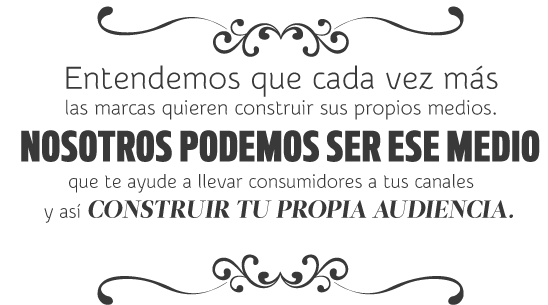
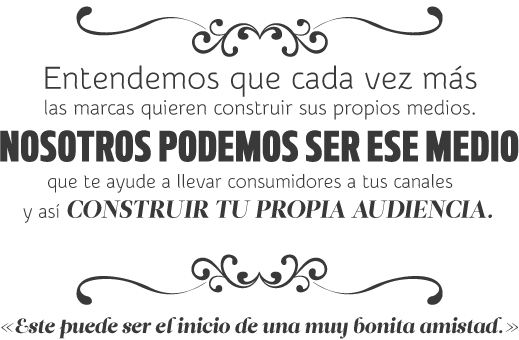
ajustes textos animacion

Changed region(s): [[0.0, 0.0, 1.0, 1.0], [0.8015, 0.0, 0.8632, 0.0885], [0.7091, 0.7967, 0.8324, 0.8557]]

diff --git a/Src/symfony/src/Boom/Bundle/FrontBundle/Resources/public/especiales/7boomytu/js/script.js b/Src/symfony/src/Boom/Bundle/FrontBundle/Resources/public/especiales/7boomytu/js/script.js
@@ -328,26 +328,26 @@ $(document).ready(function(){
 
     if ( pageX() >= 4500 ){
       $('#txt3 .numero, #txt3 .uno').addClass('is-showing');
-      $('#txt3 .dos, #txt3 .tres').removeClass('is-showing');
+      $('#txt3 .dos').removeClass('is-showing');
     };
 
     if ( pageX() >= 5000 ){
       $('#txt3 .uno, #txt4 .uno, #txt4 .numero').removeClass('is-showing');
-      $('#txt3 .dos, #txt3 .tres').addClass('is-showing');
+      $('#txt3 .dos').addClass('is-showing');
     };
 
     if ( pageX() >= 5700 ){
       $('#txt4 .numero, #txt4 .uno').addClass('is-showing');
-      $('#txt4 .dos, #txt3 .dos, #txt3 .tres, #txt3 .numero, #txt4 .tres').removeClass('is-showing');
+      $('#txt4 .dos, #txt3 .dos, #txt3 .tres, #txt3 .numero').removeClass('is-showing');
     };
 
     if ( pageX() >= 6000 ){
       $('#txt4 .uno, #txt5 .uno, #txt5 .numero').removeClass('is-showing');
-      $('#txt4 .dos, #txt4 .tres').addClass('is-showing');
+      $('#txt4 .dos').addClass('is-showing');
     };
 
     if ( pageX() >= 6500 ){
-      $('#txt4 .dos, #txt4 .tres, #txt4 .numero, #txt5 .dos').removeClass('is-showing');
+      $('#txt4 .dos, #txt4 .numero, #txt5 .dos').removeClass('is-showing');
       $('#txt5 .numero, #txt5 .uno').addClass('is-showing');
     };
 
@@ -358,37 +358,37 @@ $(document).ready(function(){
 
     if ( pageX() >= 7500 ){
       $('#txt5 .tres').addClass('is-showing');
-      $('#txt5 .cuatro').removeClass('is-showing');
+      $('#txt5 .cuatro, #txt5 .dos').removeClass('is-showing');
     };
 
     if ( pageX() >= 8000 ){
-      $('#txt5 .dos, #txt5 .tres, #txt6 .numero, #txt6 .uno, #txt6 .dos').removeClass('is-showing');
+      $('#txt5 .dos, #txt5 .tres, #txt6 .numero, #txt6 .uno').removeClass('is-showing');
       $('#txt5 .cuatro').addClass('is-showing');
     };
 
     if ( pageX() >= 8500 ){
-      $('#txt5 .numero, #txt5 .cuatro, #txt5 .tres, #txt6 .tres').removeClass('is-showing');
-      $('#txt6 .numero, #txt6 .uno, #txt6 .dos').addClass('is-showing');
+      $('#txt5 .numero, #txt5 .cuatro, #txt5 .tres, #txt6 .dos').removeClass('is-showing');
+      $('#txt6 .numero, #txt6 .uno').addClass('is-showing');
     };
 
     if ( pageX() >= 9000 ){
-      $('#txt6 .tres').addClass('is-showing');
-      $('#txt6 .dos, #txt6 .uno, #txt6 .cuatro').removeClass('is-showing');
+      $('#txt6 .dos').addClass('is-showing');
+      $('#txt6 .tres, #txt6 .uno, #txt6 .cuatro').removeClass('is-showing');
     };
 
     if ( pageX() >= 9300 ){
-      $('#txt6 .cuatro').addClass('is-showing');
-      $('#txt6 .tres, #txt6 .cinco ').removeClass('is-showing');
+      $('#txt6 .tres').addClass('is-showing');
+      $('#txt6 .cuatro, #txt6 .dos').removeClass('is-showing');
     };
 
     if ( pageX() >= 9500 ){
-      $('#txt6 .cuatro').removeClass('is-showing').delay(5600).queue(function(next){
-        $('#txt6 .cinco').addClass('is-showing');
+      $('#txt6 .tres').removeClass('is-showing').delay(5600).queue(function(next){
+        $('#txt6 .cuatro').addClass('is-showing');
       });
     };
 
     if ( pageX() >= 9800 ){
-      $('#txt6 .numero, #txt6 .cinco, #txt7 .numero, #txt7 .uno, #txt7 .dos, #txt7 .tres').removeClass('is-showing');
+      $('#txt6 .numero, #txt6 .cuatro, #txt7 .numero, #txt7 .uno, #txt7 .dos, #txt7 .tres').removeClass('is-showing');
     };
 
     if ( pageX() >= 10200 ){

diff --git a/Src/symfony/src/Boom/Bundle/FrontBundle/Resources/public/especiales/7boomytu/style.css b/Src/symfony/src/Boom/Bundle/FrontBundle/Resources/public/especiales/7boomytu/style.css
@@ -233,13 +233,7 @@ div.valla-large img, div.valla-medium img, div.valla-small img{
 
 #txt3 div.dos {
   background: url('images/textos/txt3-2.png') no-repeat left top;
-  max-height: 278px;
-}
-
-#txt3 div.tres {
-  background: url('images/textos/txt3-3.png') no-repeat left top;
-  top: 102%;
-  max-height: 143px;
+  max-height: 450px;
 }
 
 #txt4 div.uno {
@@ -251,14 +245,8 @@ div.valla-large img, div.valla-medium img, div.valla-small img{
 
 #txt4 div.dos {
   background: url('images/textos/txt4-2.png') no-repeat left top;
-  left: 150px;
-  max-height: 305px;
-}
-
-#txt4 div.tres {
-  background: url('images/textos/txt4-3.png') no-repeat left top;
-  top: 110%;
-  max-width: 500px;
+  left: 185px;
+  max-height: 340px;
 }
 
 #txt5 div.uno {
@@ -270,48 +258,44 @@ div.valla-large img, div.valla-medium img, div.valla-small img{
   background: url('images/textos/txt5-2.png') no-repeat left top;
   max-width: 535px;
   max-height: 89px;
+  top: 20%;
 }
 
 #txt5 div.tres {
   background: url('images/textos/txt5-3.png') no-repeat left top;
   max-width: 535px;
-  top: 40%;
+  top: 10%;
 }
 
 #txt5 div.cuatro {
   background: url('images/textos/txt5-4.png') no-repeat left top;
-  top: 40px;
+  top: 15%;
   max-height: 135px;
 }
 
 #txt6 div.uno {
   background: url('images/textos/txt6-1.png') no-repeat left top;
   max-width: 519px;
-  max-height: 133px;
+  max-height: 211px;
 }
 
 #txt6 div.dos {
   background: url('images/textos/txt6-2.png') no-repeat left top;
-  top: 50%;
-  max-height: 88px;
+  top: 8%;
+  max-height: 198px;
 }
 
 #txt6 div.tres {
   background: url('images/textos/txt6-3.png') no-repeat left top;
-  max-width: 520px;
+  max-height: 174px;
+  top: 8%;
 }
 
 #txt6 div.cuatro {
   background: url('images/textos/txt6-4.png') no-repeat left top;
   left: 170px;
   top: 15px;
-  max-width: 520px;
-}
-
-#txt6 div.cinco {
-  background: url('images/textos/txt6-5.png') no-repeat left top;
-  max-width: 520px;
-  top: 10%;
+  max-height: 177px;
 }
 
 #txt7 div.uno {
@@ -337,7 +321,7 @@ div.valla-large img, div.valla-medium img, div.valla-small img{
 
 /* @end */
 
-#txt-wrapper div div.txt-resize {
+#txt-wrapper div div.text-resize {
   background-size: contain;  
 }
 
@@ -629,17 +613,26 @@ body.is-scrolling .dude-piernas .p-left {
   margin: 30px auto 0 auto;
 }
 
-#geocities header nav span {
-  font: normal 34px Impact;
+#geocities header ul li {
+  float: left;
+  display: block;  
+}
+
+#geocities header ul li p span {
   color: #fff;
   margin: 0 25px;
 }
 
-#geocities header nav a {
+#geocities header ul li p {
   font: normal 34px Impact;
   color: #b7529f;
 }
 
+#geocities header > p, #geocities header ul {
+  width: 100%;
+  display: block;
+  float: left;
+}
 #geocities header marquee {
   font: bold 26px/28px "Times New Roman", Times, serif;
   color: yellow;

diff --git a/Src/symfony/src/Boom/Bundle/FrontBundle/Resources/public/especiales/7boomytu/index.html b/Src/symfony/src/Boom/Bundle/FrontBundle/Resources/public/especiales/7boomytu/index.html
@@ -36,13 +36,11 @@
           <div class="numero"></div>
           <div class="bloque text-resize uno"></div>
           <div class="bloque text-resize dos"></div>
-          <div class="bloque text-resize tres"></div>
         </div>
         <div class="textos" id="txt4">
           <div class="numero"></div>
           <div class="bloque text-resize uno"></div>
           <div class="bloque text-resize dos"></div>
-          <div class="bloque text-resize tres"></div>
         </div>
         <div class="textos" id="txt5">
           <div class="numero"></div>
@@ -57,7 +55,6 @@
           <div class="bloque text-resize dos"></div>
           <div class="bloque text-resize tres"></div>
           <div class="bloque text-resize cuatro"></div>
-          <div class="bloque text-resize cinco"></div>
         </div>
         <div class="textos" id="txt7">
           <div class="numero"></div>
@@ -106,17 +103,13 @@
       <div id="geocities">
         <header>
           <img src="images/geocities-header.jpg" />
-          <nav>
-            <a href="">Home</a>
-            <span>|</span>
-            <a href="">Trabajos</a>
-            <span>|</span>
-            <a href="">Clientes</a>
-            <span>|</span>
-            <a href="">Prensa</a>
-            <span>|</span>
-            <a href="">Libro de visitas</a>
-          </nav>
+          <ul>
+            <li><p>Home <span>|</span></p></li>
+            <li><p>Trabajos <span>|</span></p></li>
+            <li><p>Clientes <span>|</span></p></li>
+            <li><p>Prensa <span>|</span></p></li>
+            <li><p>Libro de visitas</p></li>
+          </ul>
           <p><marquee behavior="alternate">****_ Pasa a firmar el Libro de Visitas _****</marquee></p>
         </header>
         <div class="cf">
